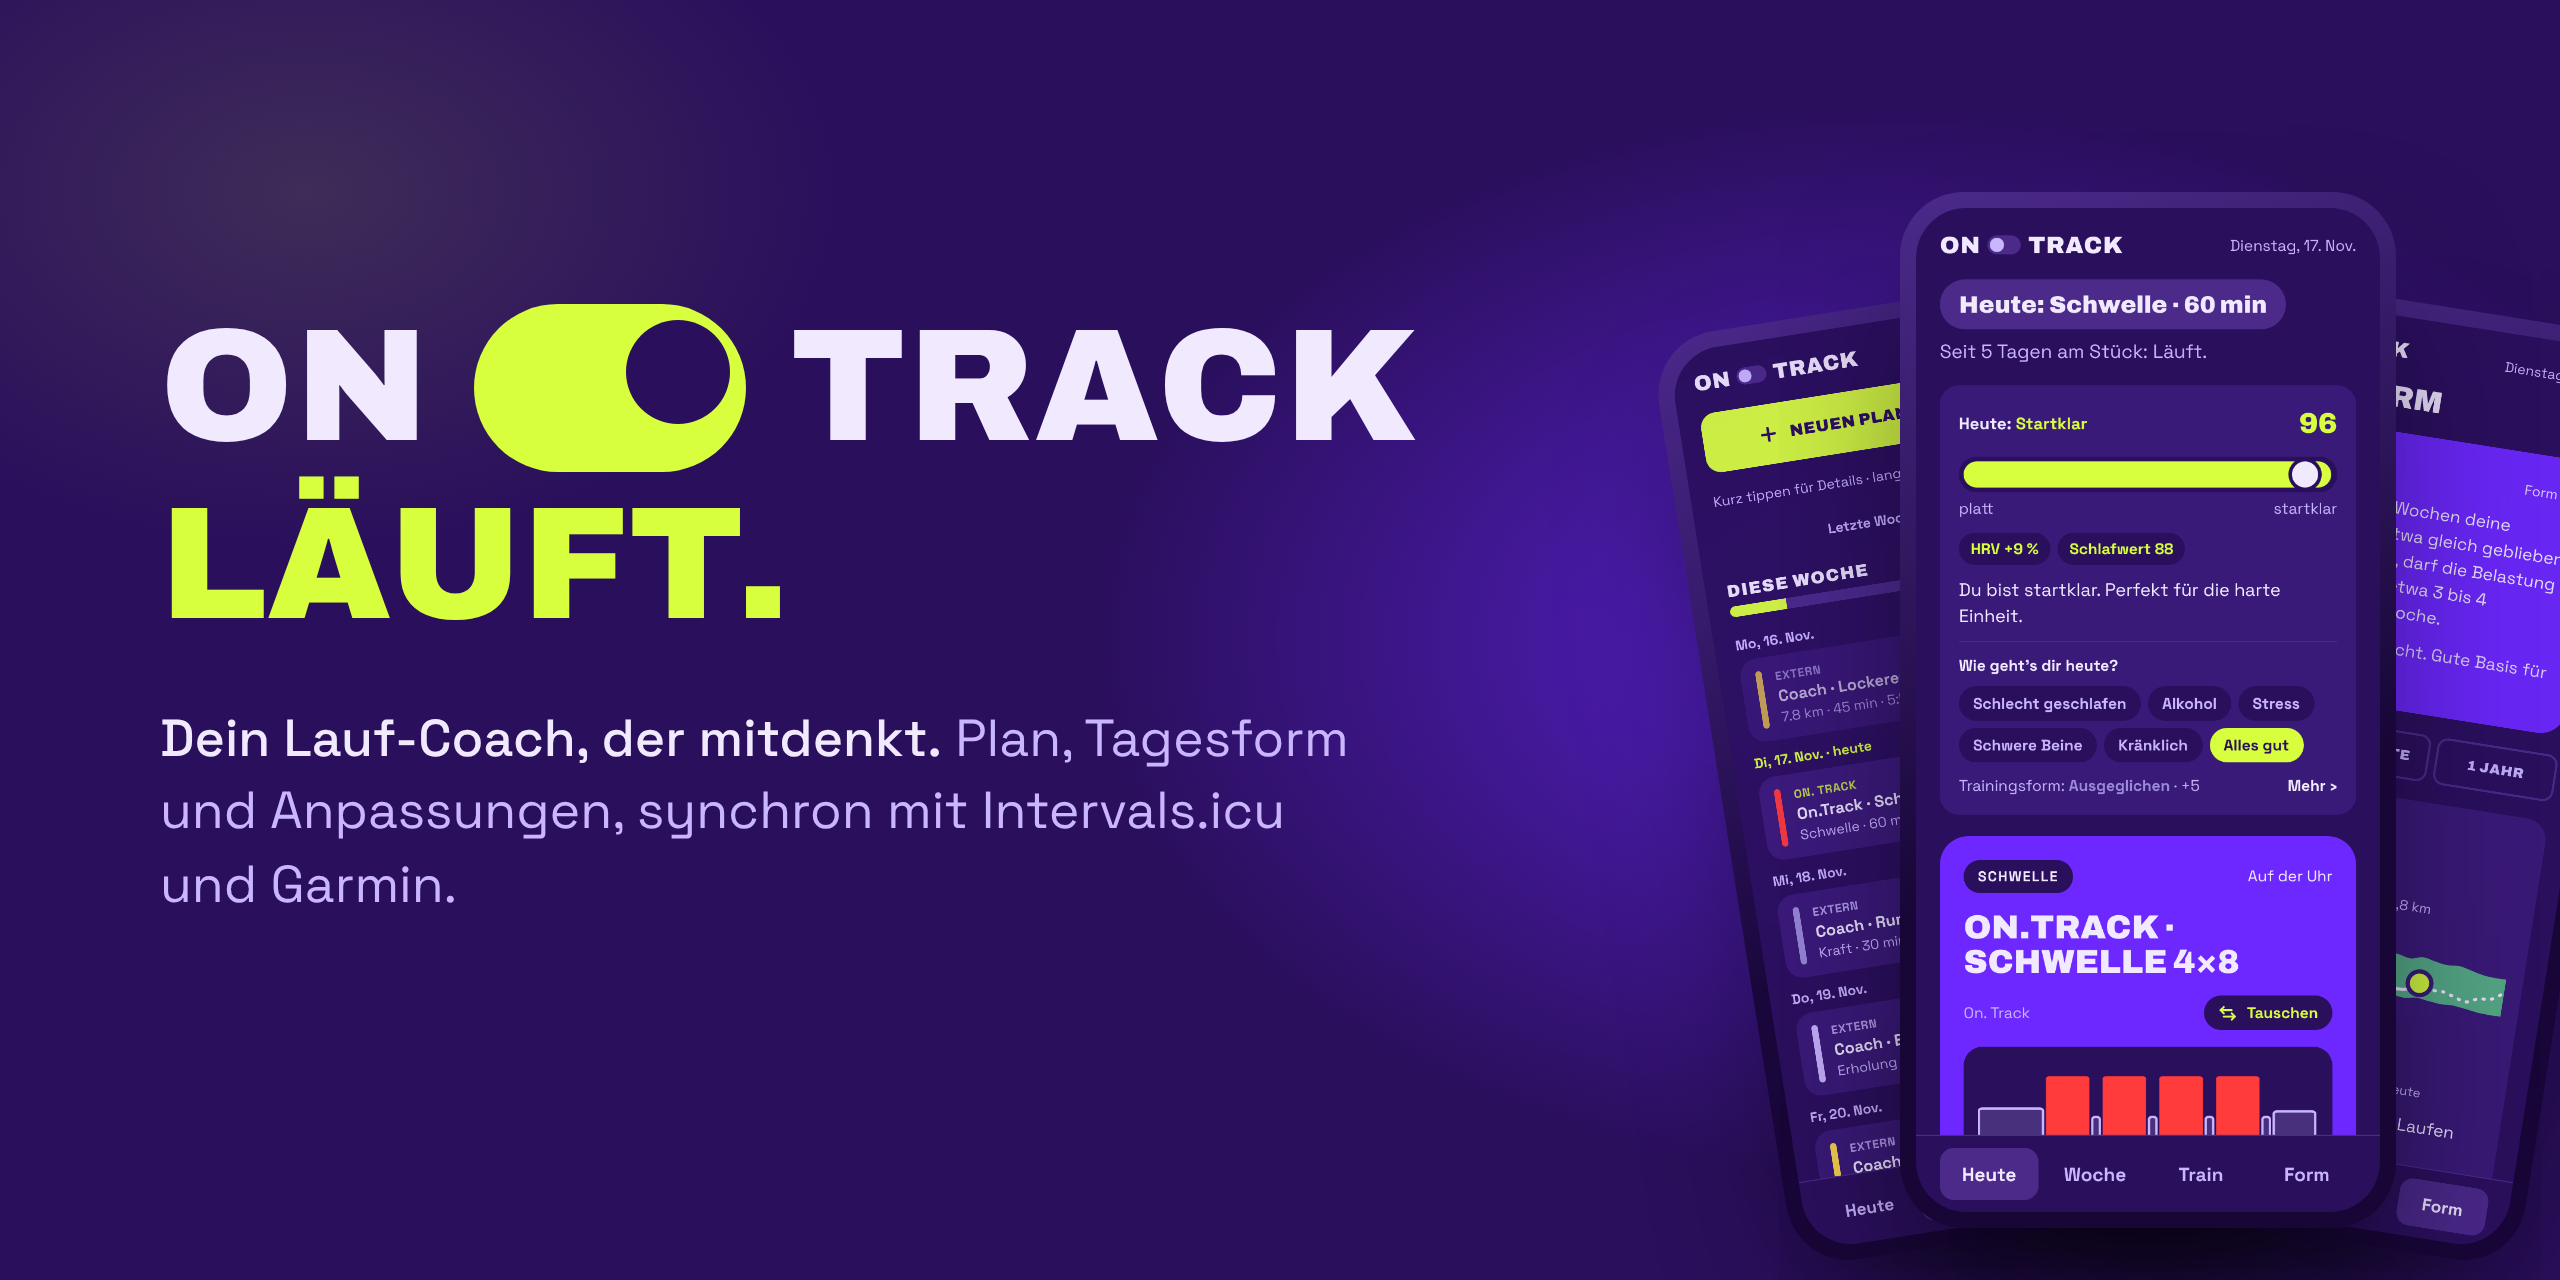
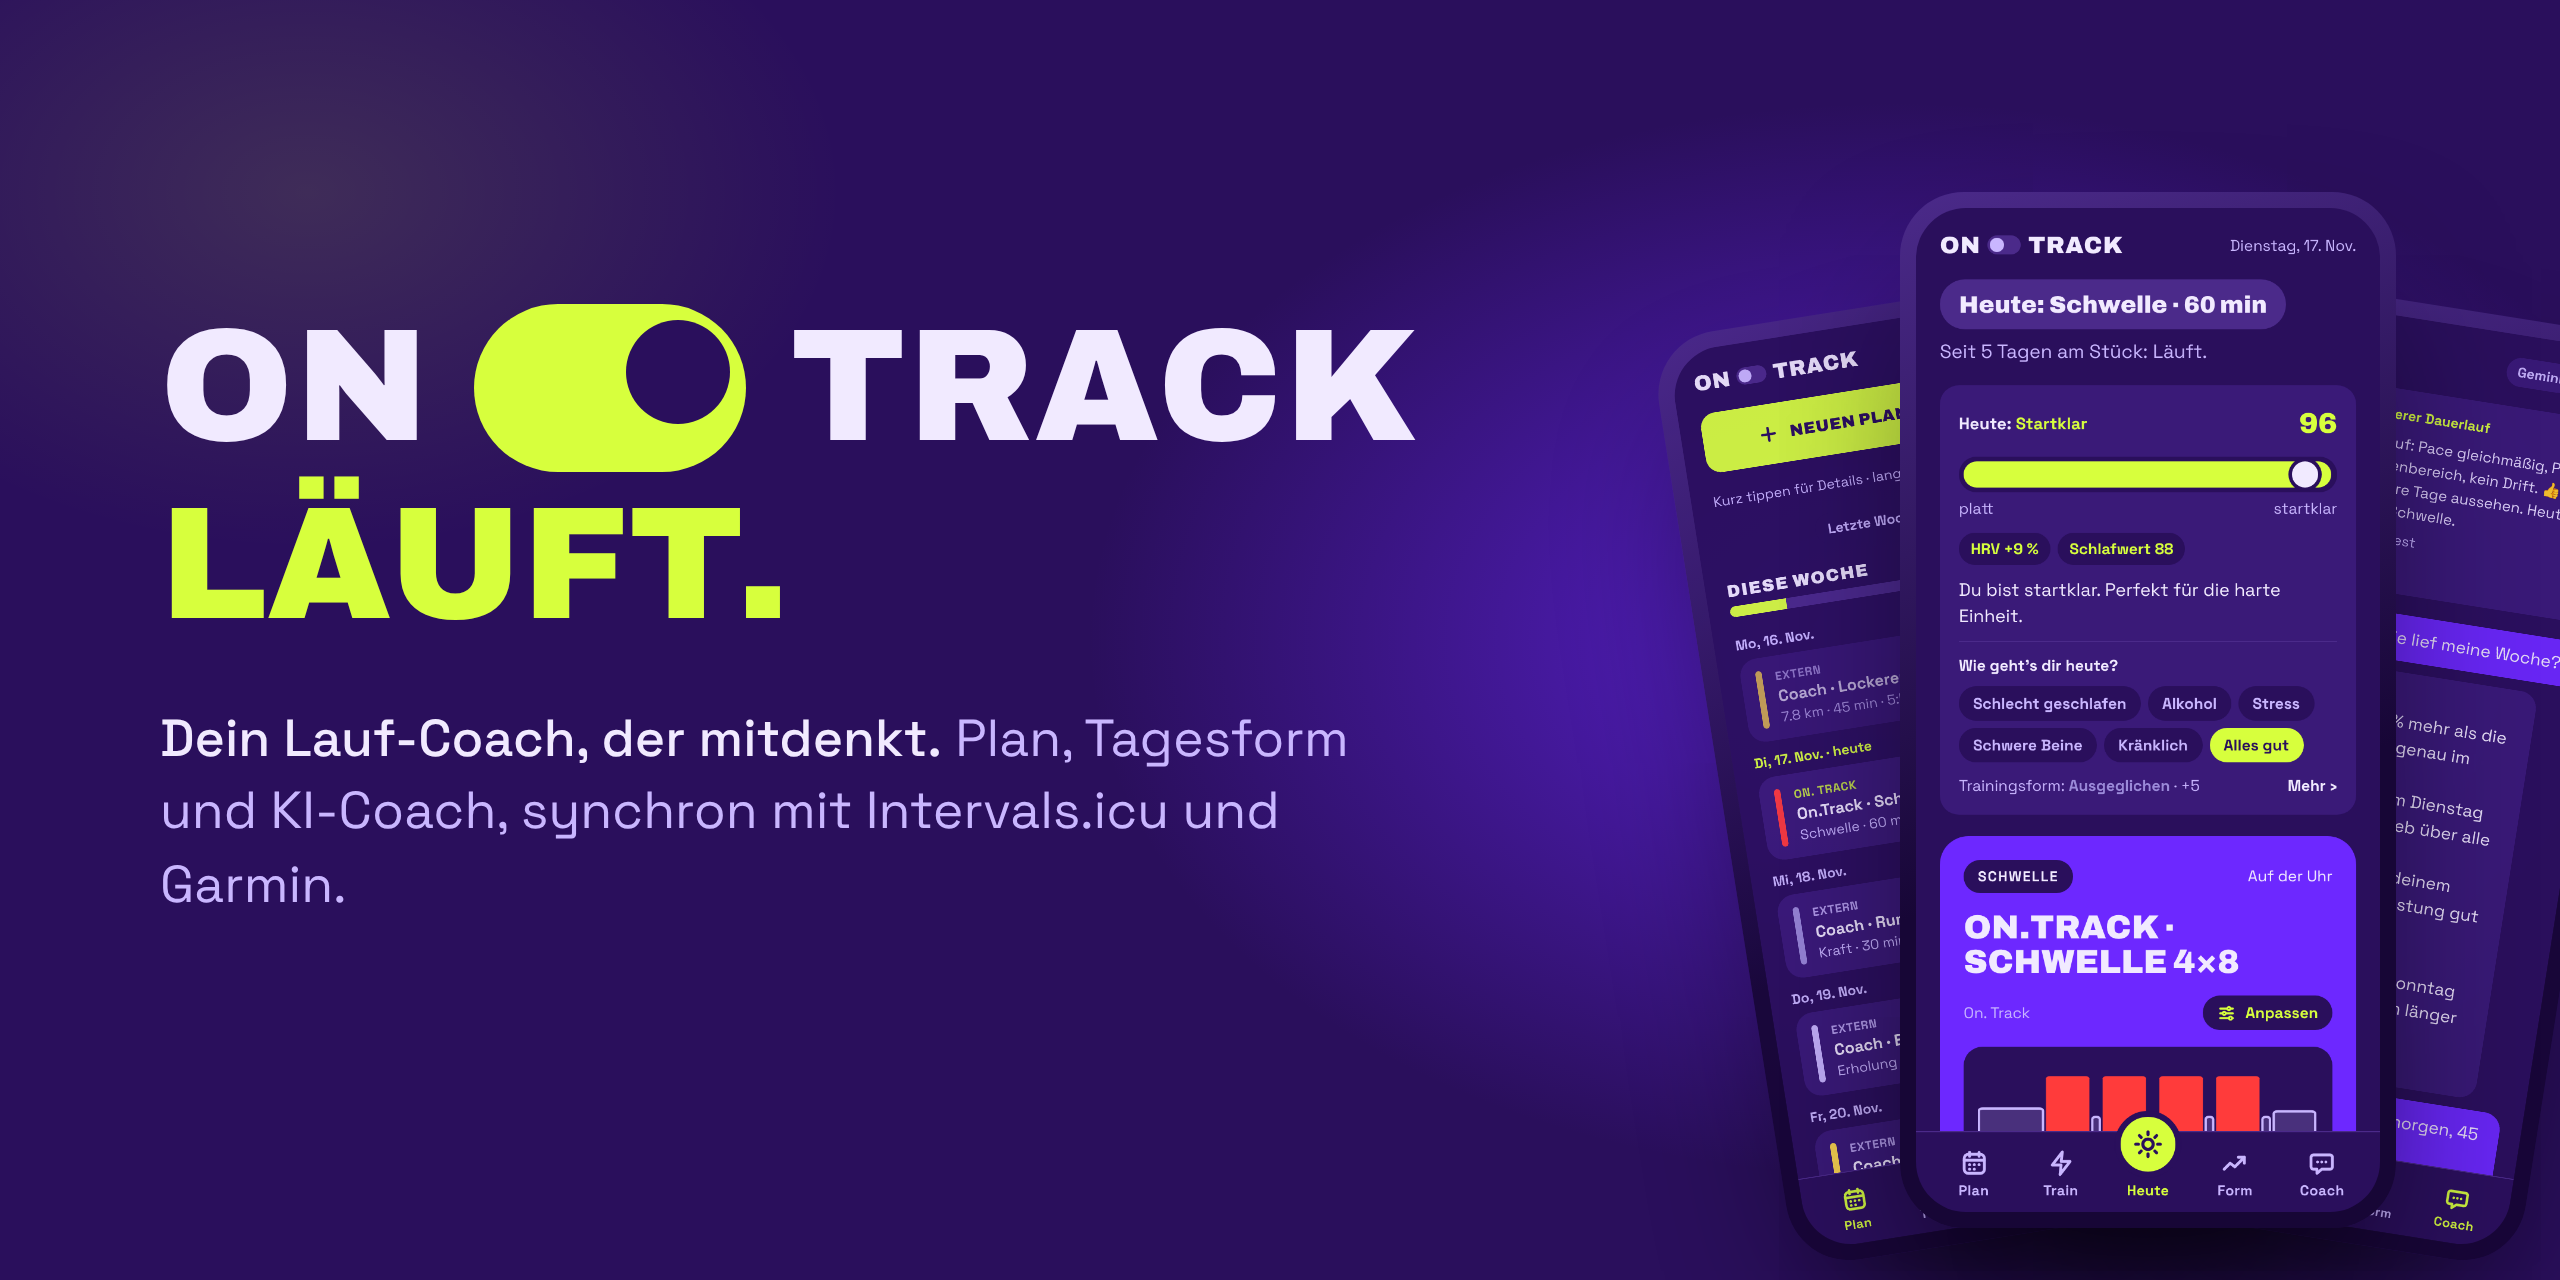
Landingpage und README: KI-Coach, neues Anpassen, neue Leiste, frische Demo-Screenshots
Claude-Session: https://claude.ai/code/session_01HwzKfScTvYYMRTGfbjYx8Y

Changed region(s): [[0.7188, 0.2812, 1.0, 0.9688], [0.0625, 0.625, 0.5, 0.7188], [0.875, 0.7812, 0.9062, 0.8125]]

diff --git a/about/index.html b/about/index.html
@@ -163,9 +163,9 @@ footer .wrap{display:flex;flex-wrap:wrap;gap:12px;justify-content:space-between}
   <div class="hero">
     <div class="wrap">
       <div>
-        <span class="eyebrow"><b></b>Für Garmin &amp; Intervals.icu</span>
+        <span class="eyebrow"><b></b>Jetzt mit KI-Coach</span>
         <h1><span class="logo" id="herologo" aria-label="On. Track"><span>ON</span><span class="sw"><i></i></span><span>TRACK</span></span><em>Läuft.</em></h1>
-        <p class="lead"><strong>Dein Lauf-Coach, der mitdenkt.</strong> Trainingsplan, Tagesform und Anpassungen in einer App. Alles synchron mit Intervals.icu und direkt auf deiner Uhr.</p>
+        <p class="lead"><strong>Dein Lauf-Coach, der mitdenkt.</strong> Trainingsplan, Tagesform, Anpassungen und ein KI-Coach in einer App. Alles synchron mit Intervals.icu und direkt auf deiner Uhr.</p>
         <div class="ctas">
           <a class="btn lime" href="../">App öffnen</a>
           <a class="btn ghost" href="#features">Was sie kann</a>
@@ -173,16 +173,16 @@ footer .wrap{display:flex;flex-wrap:wrap;gap:12px;justify-content:space-between}
         <p class="fineprint">Gebaut für mich, offen für mehr. Alle Bilder zeigen Demo-Daten.</p>
       </div>
       <div class="fan" aria-hidden="true">
-        <div class="phone p1"><img src="../docs/screens/02-woche.png" alt=""></div>
+        <div class="phone p1"><img src="../docs/screens/02-plan.png" alt=""></div>
         <div class="phone p2 float"><img src="../docs/screens/01-heute.png" alt=""></div>
-        <div class="phone p3"><img src="../docs/screens/07-form.png" alt=""></div>
+        <div class="phone p3"><img src="../docs/screens/12-coach.png" alt=""></div>
       </div>
     </div>
   </div>
 
   <div class="marquee" aria-hidden="true"><div>
-    <span>HRV</span><span>Ruhepuls</span><span>Schlaf</span><span>Drag &amp; Drop</span><span>Train now</span><span>Laufaufbau</span><span>Garmin</span><span>Intervals.icu</span><span>Planer</span><span>Leichter</span>
-    <span>HRV</span><span>Ruhepuls</span><span>Schlaf</span><span>Drag &amp; Drop</span><span>Train now</span><span>Laufaufbau</span><span>Garmin</span><span>Intervals.icu</span><span>Planer</span><span>Leichter</span>
+    <span>KI-Coach</span><span>HRV</span><span>Schlaf</span><span>Anpassen</span><span>Drag &amp; Drop</span><span>Train now</span><span>Laufaufbau</span><span>Debrief</span><span>Garmin</span><span>Intervals.icu</span><span>Planer</span>
+    <span>KI-Coach</span><span>HRV</span><span>Schlaf</span><span>Anpassen</span><span>Drag &amp; Drop</span><span>Train now</span><span>Laufaufbau</span><span>Debrief</span><span>Garmin</span><span>Intervals.icu</span><span>Planer</span>
   </div></div>
 
   <section class="feature" id="features">
@@ -202,13 +202,13 @@ footer .wrap{display:flex;flex-wrap:wrap;gap:12px;justify-content:space-between}
     <div class="wrap">
       <div class="copy rv">
         <div class="kicker">02 · Anpassen</div>
-        <h2>Leichter heißt <em>schlauer.</em></h2>
-        <p>Leichter, kürzer, schwerer, länger: Jede Änderung zeigt dir erst eine <strong>Vorschau mit vorher und nachher</strong>. Erst wenn du übernimmst, landet sie auf der Uhr.</p>
-        <p>Und „leichter“ denkt mit. Aus <strong>VO2max-Intervallen wird ein lockerer Dauerlauf</strong>, statt dass die Intervalle nur ein bisschen langsamer werden. Ein Tipp, und das Original ist zurück.</p>
+        <h2>Echte Alternativen. <em>Nicht nur langsamer.</em></h2>
+        <p>Ein Tipp auf <strong>Anpassen</strong>, und du bekommst drei echte Workouts: <strong>leichter, gleichwertig, härter</strong>. Gleicher Trainingsreiz, andere Form. Die App markiert, was zu deiner Bereitschaft passt.</p>
+        <p>Wenig Zeit? Die <strong>Zeit-Chips</strong> kürzen zuerst Ein- und Auslaufen, der Kern bleibt. Jede Änderung zeigt erst eine Vorschau mit vorher und nachher, und ein Tipp holt das Original zurück.</p>
       </div>
       <div class="phones rv d1">
-        <div class="phone"><img src="../docs/screens/03-detail.png" alt="Workout-Detail"></div>
-        <div class="phone"><img src="../docs/screens/04-vorschau-leichter.png" alt="Vorschau der leichteren Variante"></div>
+        <div class="phone"><img src="../docs/screens/04-anpassen.png" alt="Anpassen mit drei Alternativen und Zeit-Chips"></div>
+        <div class="phone"><img src="../docs/screens/05-vorschau.png" alt="Vorschau vorher und nachher"></div>
       </div>
     </div>
   </section>
@@ -216,12 +216,12 @@ footer .wrap{display:flex;flex-wrap:wrap;gap:12px;justify-content:space-between}
   <section class="feature">
     <div class="wrap">
       <div class="copy rv">
-        <div class="kicker">03 · Woche</div>
+        <div class="kicker">03 · Plan</div>
         <h2>Verschieben wie im <em>Kalender.</em></h2>
         <p><strong>Lange drücken, ziehen, loslassen</strong>, mit kurzer Vibration. Eine Ampel zeigt sofort, ob der neue Tag passt oder mit einer harten Einheit kollidiert.</p>
         <p>Fällt eine Einheit aus, wandert ein Teil davon als <strong>lockerer Umfang in den nächsten passenden Lauf</strong>. So bleibt die Woche auf Kurs, ohne dass du nachrechnen musst.</p>
       </div>
-      <div class="phones rv d1"><div class="phone"><img src="../docs/screens/02-woche.png" alt="Wochenansicht"></div></div>
+      <div class="phones rv d1"><div class="phone"><img src="../docs/screens/02-plan.png" alt="Planansicht"></div></div>
     </div>
   </section>
 
@@ -234,8 +234,8 @@ footer .wrap{display:flex;flex-wrap:wrap;gap:12px;justify-content:space-between}
         <p>Dahinter steckt eine Bibliothek mit <strong>37 Workouts in neun Kategorien</strong>, von Erholung bis VO2max. Jedes passt sich an deine Zeit an, ohne die Kernintervalle zu verwässern.</p>
       </div>
       <div class="phones rv d1">
-        <div class="phone"><img src="../docs/screens/05-train-now.png" alt="Train now"></div>
-        <div class="phone"><img src="../docs/screens/06-bibliothek.png" alt="Workout-Bibliothek"></div>
+        <div class="phone"><img src="../docs/screens/06-train-now.png" alt="Train now"></div>
+        <div class="phone"><img src="../docs/screens/07-bibliothek.png" alt="Workout-Bibliothek"></div>
       </div>
     </div>
   </section>
@@ -249,8 +249,8 @@ footer .wrap{display:flex;flex-wrap:wrap;gap:12px;justify-content:space-between}
         <p>Die Trainingsform erklärt in Klartext, ob du gerade aufbaust oder frisch bist. Wahlweise für 6 Wochen, 3 Monate oder ein Jahr.</p>
       </div>
       <div class="phones rv d1">
-        <div class="phone"><img src="../docs/screens/07-form.png" alt="Form und Laufaufbau"></div>
-        <div class="phone"><img src="../docs/screens/08-form-verlauf.png" alt="Form- und Fitnessverlauf"></div>
+        <div class="phone"><img src="../docs/screens/08-form.png" alt="Form und Laufaufbau"></div>
+        <div class="phone"><img src="../docs/screens/09-form-verlauf.png" alt="Form- und Fitnessverlauf"></div>
       </div>
     </div>
   </section>
@@ -264,8 +264,25 @@ footer .wrap{display:flex;flex-wrap:wrap;gap:12px;justify-content:space-between}
         <p>Und er sagt dir ehrlich, wenn der Plan zu viel will: <strong>zu wenig Wochen, zu steiler Anstieg, Zielzeit zu ambitioniert</strong>.</p>
       </div>
       <div class="phones rv d1">
-        <div class="phone"><img src="../docs/screens/09-ziel.png" alt="Ziel festlegen"></div>
-        <div class="phone"><img src="../docs/screens/10-planvorschau.png" alt="Planvorschau"></div>
+        <div class="phone"><img src="../docs/screens/10-ziel.png" alt="Ziel festlegen"></div>
+        <div class="phone"><img src="../docs/screens/11-planvorschau.png" alt="Planvorschau"></div>
+      </div>
+    </div>
+  </section>
+
+  <section class="feature" id="coach">
+    <div class="wrap">
+      <div class="copy rv">
+        <div class="kicker">07 · Coach</div>
+        <h2>Frag einfach. <em>Er kennt deine Daten.</em></h2>
+        <p>Der KI-Coach sieht deine Läufe, HRV, Schlaf, Form und den Plan der nächsten Tage. Du fragst „Wie lief meine Woche?“ oder „Bau mir was mit Bergen, 45 Minuten“, und bekommst eine <strong>Antwort mit deinen echten Zahlen</strong>.</p>
+        <p>Nach jedem Lauf gibt's einen <strong>kurzen Debrief</strong>: Pace-Treue, Puls-Drift, ein Tipp für die nächsten Tage. Trainings vom Coach landen als Karte mit Vorschau und mit einem Tipp auf der Uhr.</p>
+        <p>Du wählst den Anbieter: <strong>Gemini, Groq, OpenRouter, ChatGPT oder Claude</strong>, auch gratis. Fällt einer aus, springt der nächste ein. Die Keys trägst du in der App ein, gespeichert werden sie nur auf deinem eigenen Server.</p>
+        <div class="chips"><span class="chip l">Debrief</span><span class="chip">Trainings auf Zuruf</span><span class="chip">5 Anbieter</span></div>
+      </div>
+      <div class="phones rv d1">
+        <div class="phone"><img src="../docs/screens/12-coach.png" alt="Coach mit Debrief und Wochenanalyse"></div>
+        <div class="phone"><img src="../docs/screens/13-coach-training.png" alt="Coach erstellt ein Training"></div>
       </div>
     </div>
   </section>
@@ -296,7 +313,7 @@ footer .wrap{display:flex;flex-wrap:wrap;gap:12px;justify-content:space-between}
       <div class="flow">
         <div class="step rv"><h3>Garmin</h3><p>Deine Läufe, HRV, Ruhepuls und Schlaf kommen wie gewohnt von der Uhr.</p></div>
         <div class="step rv d1"><h3>Intervals.icu</h3><p>Hier landen Daten und Plan, auch der von deinem bisherigen Coach.</p></div>
-        <div class="step rv d2"><h3>On. Track</h3><p>Macht alles verständlich und lässt dich mit einem Tipp anpassen.</p></div>
+        <div class="step rv d2"><h3>On. Track</h3><p>Macht alles verständlich, der Coach ordnet ein, und du passt mit einem Tipp an.</p></div>
         <div class="step rv"><h3>Zurück</h3><p>Änderungen gehen als strukturierte Workouts zurück bis auf die Uhr.</p></div>
       </div>
       <p class="rv" style="margin:28px 0 0;color:var(--lilac);font-size:16px;line-height:1.6;max-width:44em">Fremde Pläne bleiben unangetastet. Automatische Anpassungen laufen nur bei eigenen On.Track-Einheiten, alles andere änderst nur du selbst.</p>

diff --git a/README.md b/README.md
@@ -9,9 +9,9 @@
 
 <p align="center">
 <img src="docs/screens/01-heute.png" width="24%" alt="Heute">
-<img src="docs/screens/04-vorschau-leichter.png" width="24%" alt="Leichter mit Vorschau">
-<img src="docs/screens/02-woche.png" width="24%" alt="Woche">
-<img src="docs/screens/07-form.png" width="24%" alt="Form">
+<img src="docs/screens/04-anpassen.png" width="24%" alt="Anpassen">
+<img src="docs/screens/02-plan.png" width="24%" alt="Plan">
+<img src="docs/screens/12-coach.png" width="24%" alt="Coach">
 </p>
 
 <p align="center"><sub>Alle Screenshots zeigen erfundene Demo-Daten.</sub></p>
@@ -22,9 +22,9 @@
 
 ☀ **Bereitschaft statt Bauchgefühl:** 0 bis 100 aus HRV, Ruhepuls, Schlaf und Form, dazu ein Check-in für das, was die Uhr nicht weiß.
 
-🐢 **Leichter heißt schlauer:** Jede Änderung mit Vorschau. Aus VO2max-Intervallen wird ein lockerer Dauerlauf statt nur langsamer Intervalle.
+🎛 **Anpassen mit echten Alternativen:** leichter, gleichwertig oder härter als echtes Workout, dazu Zeit-Chips. Jede Änderung mit Vorschau.
 
-🗓 **Verschieben wie im Kalender:** lange drücken und ziehen, mit Ampel bei Kollisionen und automatischem Ausgleich.
+🗓 **Plan wie im Kalender:** lange drücken und ziehen, mit Ampel bei Kollisionen und automatischem Ausgleich.
 
 🎲 **Train now:** Dauer wählen, die App schlägt das passende Workout vor. Dahinter stecken 37 Workouts in neun Kategorien.
 
